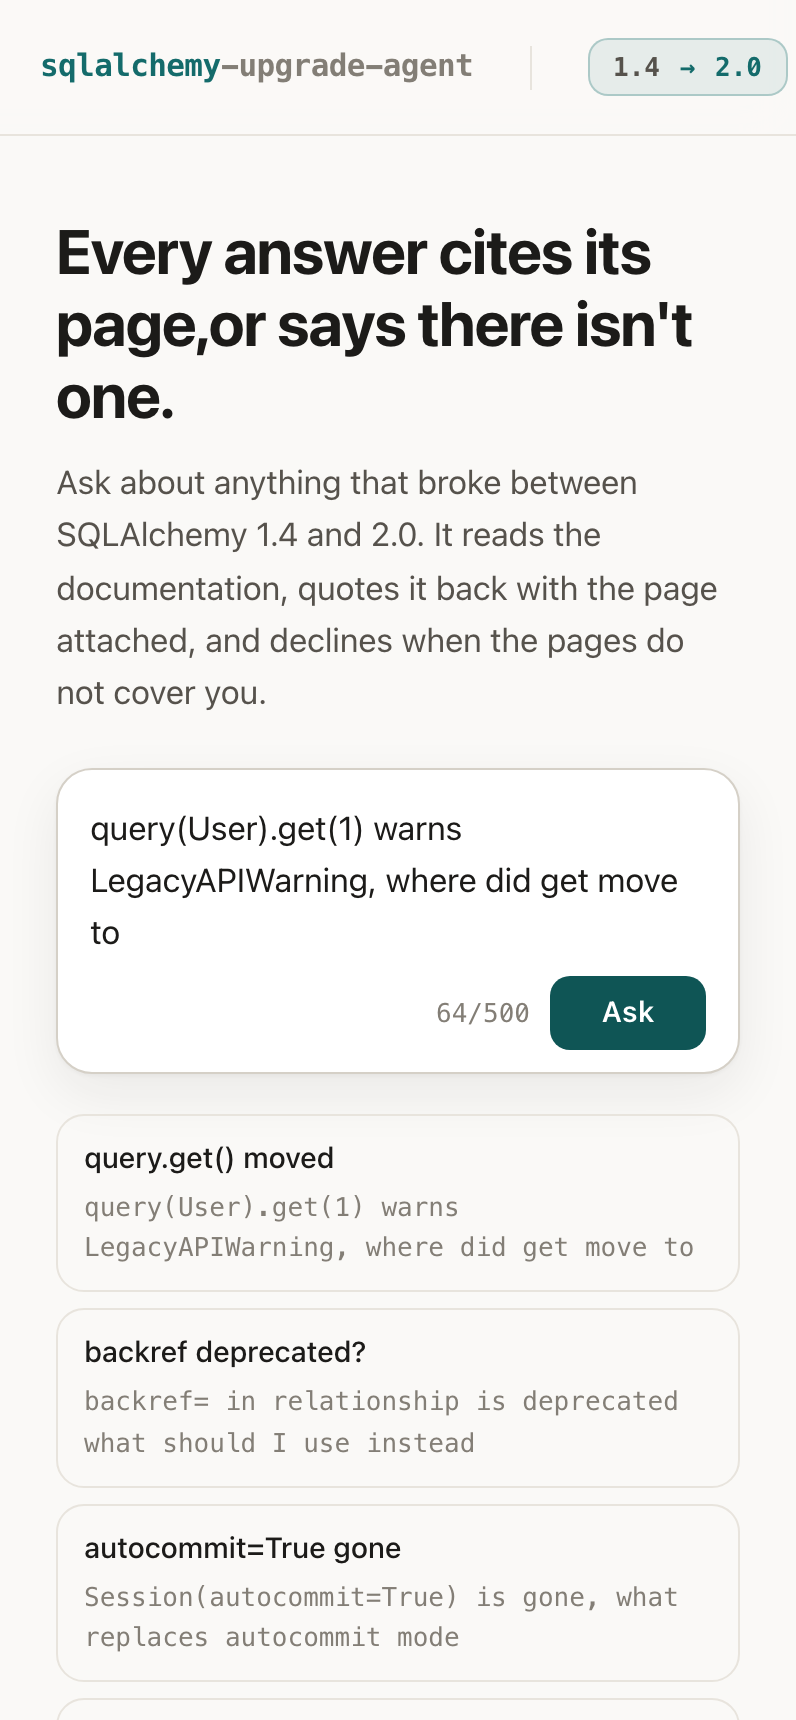
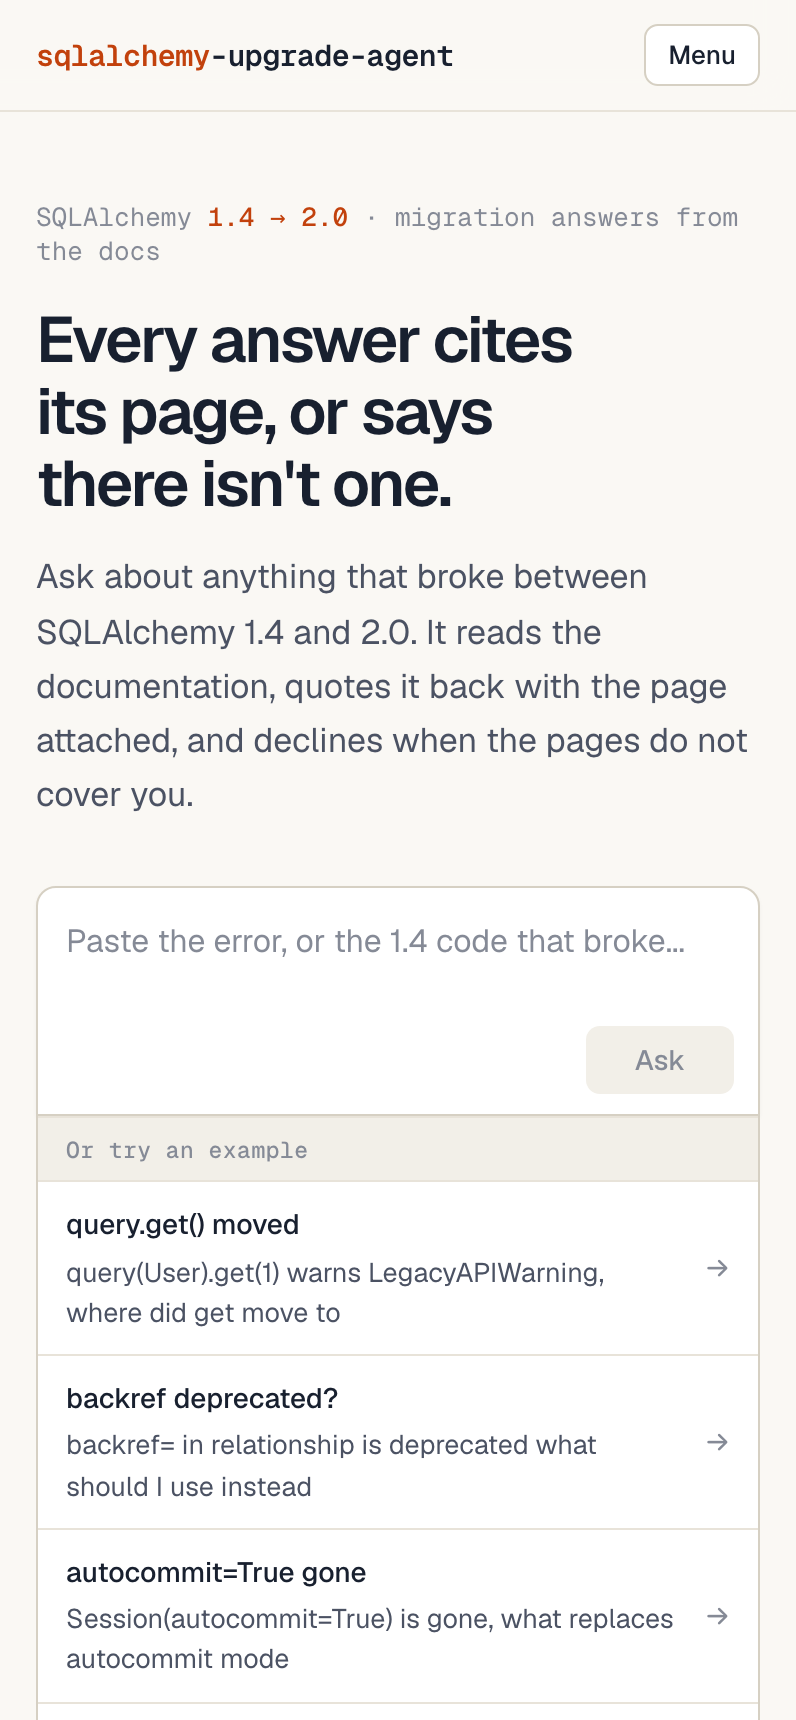
docs: describe the redesigned demo page, retake its screenshots
- README: all three screenshots retaken from the live page on 2026-09-22 (answered,
  declined, phone), plus a new one of the "What breaks in 2.0" index, with captions
  that say what was asked and which model answered.
- study/18-PRODUCTION.md R10.15: what the page looks like and why, the three
  directions tried and rejected, and how the breakage index is pinned to BREAKAGES.md.
- study/07-TESTS.md: a Phase 7 row in the test table (test_inject, test_fence,
  test_demo_page); the table stopped at Phase 6.
- CLAUDE.md: the resume block records the redesign and one open wording bug
  ("Please wait 1 seconds" in rag/demo.py); the branching table no longer pins a
  main hash that had moved.

diff --git a/README.md b/README.md
@@ -6,12 +6,14 @@ SQLAlchemy documentation, with every claim linked to the page it came from.**
 **Try it:** https://virajvaghasia--sqlalchemy-upgrade-agent.modal.run — paste an error or a line of 1.4
 code. The first question after the page has been idle takes about a minute while it wakes up.
 
-![An answered question on the live page: the answer carries numbered citations, each code block
-can be copied, and the source panel marks which of the five pages was actually
+![An answered question on the live page: the answer carries numbered citations, the code block
+can be copied, and the source list on the right marks which of the five pages was actually
 cited](docs/images/demo-answered.png)
 
-*A real answer from the live page, 2026-09-21. Every claim carries the number of the page it came
-from; the panel on the right shows the five pages the model was given and marks the one it used.*
+*A real answer from the live page, 2026-09-22, to "query(User).get(1) warns LegacyAPIWarning, where
+did get move to". Every claim carries the number of the page it came from; the list on the right
+is the five pages the model was given, in order, with the one it used marked **cited**. The hosted
+page is answered by `nemotron-3-ultra-550b` and says so under every answer.*
 
 **When the pages it finds do not answer the question, it says so instead of guessing.** That is the
 behaviour the whole project is built around, and it is the hard part — a model will always produce
@@ -22,14 +24,23 @@ judged the pages insufficient, and the five pages it was given are still
 listed](docs/images/demo-declined.png)
 
 *The same page asked "How long will SQLAlchemy 1.4 be supported?", one of the nine questions the
-test set marks as having no answer in these documents. It declined, said what it looked for, and
-still listed the pages so you can check it. The note below the status is honest about the cost:
+test set marks as having no answer in these documents (live, 2026-09-22). It declined, said what it
+looked for, and still listed the pages so you can check it. The note below the status is honest about the cost:
 **19 of its 52 declines on the test set had the right page in hand.***
+
+**It also lists what breaks.** The page carries an index of the 23 changes in
+[`deliverables/BREAKAGES.md`](deliverables/BREAKAGES.md), each with the 1.4 call and the exception
+SQLAlchemy 2.0.51 actually raised. Picking one asks the tool about it. The index is generated from
+that file, and a test fails if the page's copy ever differs from it.
+
+![The What breaks in 2.0 section: eight groups of breaking changes, each entry showing the 1.4 call,
+the exception name and the error message](docs/images/demo-breaks.png)
 
 <details>
 <summary>On a phone</summary>
 
-![The same page at 398 pixels wide: single column, the answer above its sources](docs/images/demo-phone.png)
+![The same page at 398 pixels wide: single column, a Menu button for the sections, the question box
+with its example list](docs/images/demo-phone.png)
 
 </details>
 
